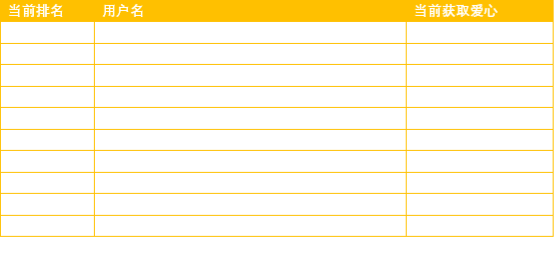
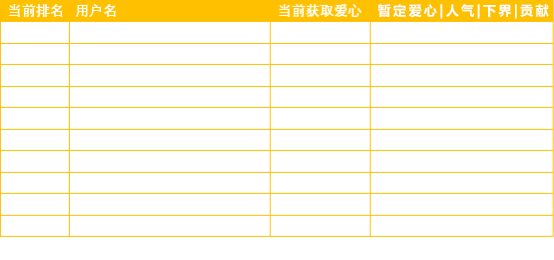
:sparkles: Display rewards.

diff --git a/server/src/index.ts b/server/src/index.ts
@@ -17,12 +17,31 @@ let rankTime = ''
 let registrationBBCode = ''
 let abandonedHeartBBCode = ''
 
-const firstPlaceMinHeart = 50
 /**
- * 换取贡献所需爱心数量
+ * 奖励
  */
-const ctbUnit = 50
-const otherPlacesMinHeart = 20
+const rewards = [
+    [10, 10, 3, 2],
+    [7, 7, 2, 1],
+    [5, 5, 1, 0],
+    [3, 3, 1, 0],
+    [3, 3, 1, 0],
+    [3, 3, 1, 0],
+    [3, 3, 1, 0],
+    [3, 3, 1, 0],
+    [3, 3, 1, 0],
+    [3, 3, 1, 0]
+]
+/**
+ * 每增加一贡献所需爱心
+ */
+const ctbHeart = 50
+/**
+ * 获取奖励最低爱心
+ */
+const heartMin = [
+    50, 20, 20, 20, 20, 20, 20, 20, 20, 20
+]
 
 async function startup() {
     try {
@@ -246,19 +265,33 @@ function updateRankInfo() {
 
 async function drawRankTable() {
     const table: Table = []
+    // 初步制作表格
     for (const ele of rank.slice(0, 10)) {
         const row = [rank.indexOf(ele) + 1, users[ele.uid].username, ele.heart]
         table.push(row)
     }
-    for (let i = 1; i < table.length; i++) {
-        const lastRow = table[i - 1]
+    // 细致化表格内容
+    for (let i = 0; i < table.length; i++) {
         const row = table[i]
-        if (row[2] === lastRow[2]) {
-            row[0] = lastRow[0]
+        if (i >= 1) {
+            const lastRow = table[i - 1]
+            // 处理并列排名
+            if (row[2] === lastRow[2]) {
+                row[0] = lastRow[0]
+            }
         }
-        if (row[2] > ctbUnit) {
-            row[2] = `${ctbUnit}×${parseInt((Number(row[2]) / ctbUnit).toString())} + ${Number(row[2]) % ctbUnit}`
+        // 显示奖励
+        let reward = [0, 0, 0, 0]
+        // 各名次基础奖励
+        if (row[2] >= heartMin[i]) {
+            reward = rewards[i]
         }
+        // 拓展贡献奖励
+        if (row[2] >= 100) {
+            const ctb = Number(row[2]) % 50 - 1
+            reward[3] += ctb
+        }
+        row.push(`${reward[0]} | ${reward[1]} | ${reward[2]} | ${reward[3]}`)
     }
 
     const canvas = new Canvas(554, 260)
@@ -269,20 +302,20 @@ async function drawRankTable() {
 
     const fontHeight = 20
     const rowHeight = 21
-    const columnWidthes = [0, 94, 94 + 312]
+    const columnLeftMargins = [0, 70, 70 + 200, 70 + 200 + 100]
     const padding = 4
     ctx.font = `${fontHeight}px Microsoft Yahei`
 
     let rowNumber = 1
     for (const row of table) {
         let columnNumber = 0
-        if ((rowNumber === 1 && row[2] < firstPlaceMinHeart) || (rowNumber > 1 && row[2] < otherPlacesMinHeart)) {
+        if (row[2] < heartMin[rowNumber - 1]) {
             ctx.fillStyle = '#777777'
         } else {
             ctx.fillStyle = '#000000'
         }
         for (const cell of row) {
-            ctx.fillText(cell.toString(), padding + columnWidthes[columnNumber], rowNumber * rowHeight + fontHeight)
+            ctx.fillText(cell.toString(), padding + columnLeftMargins[columnNumber], rowNumber * rowHeight + fontHeight)
             columnNumber++
         }
         rowNumber++
